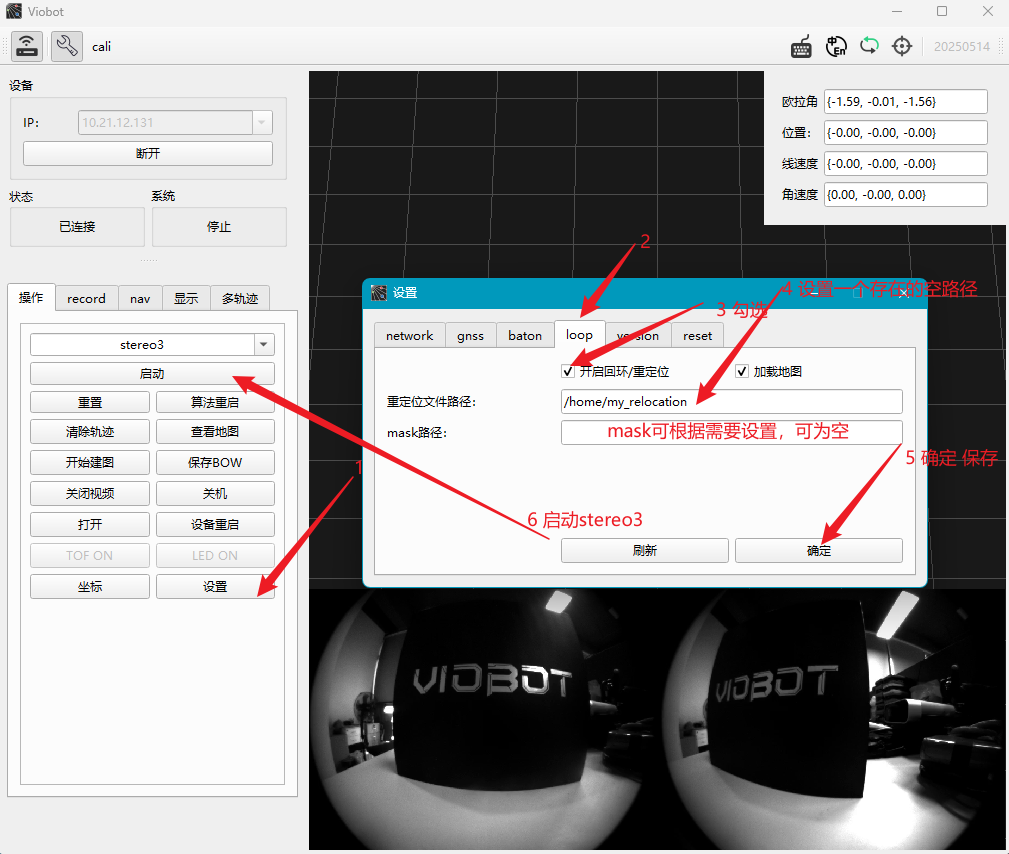
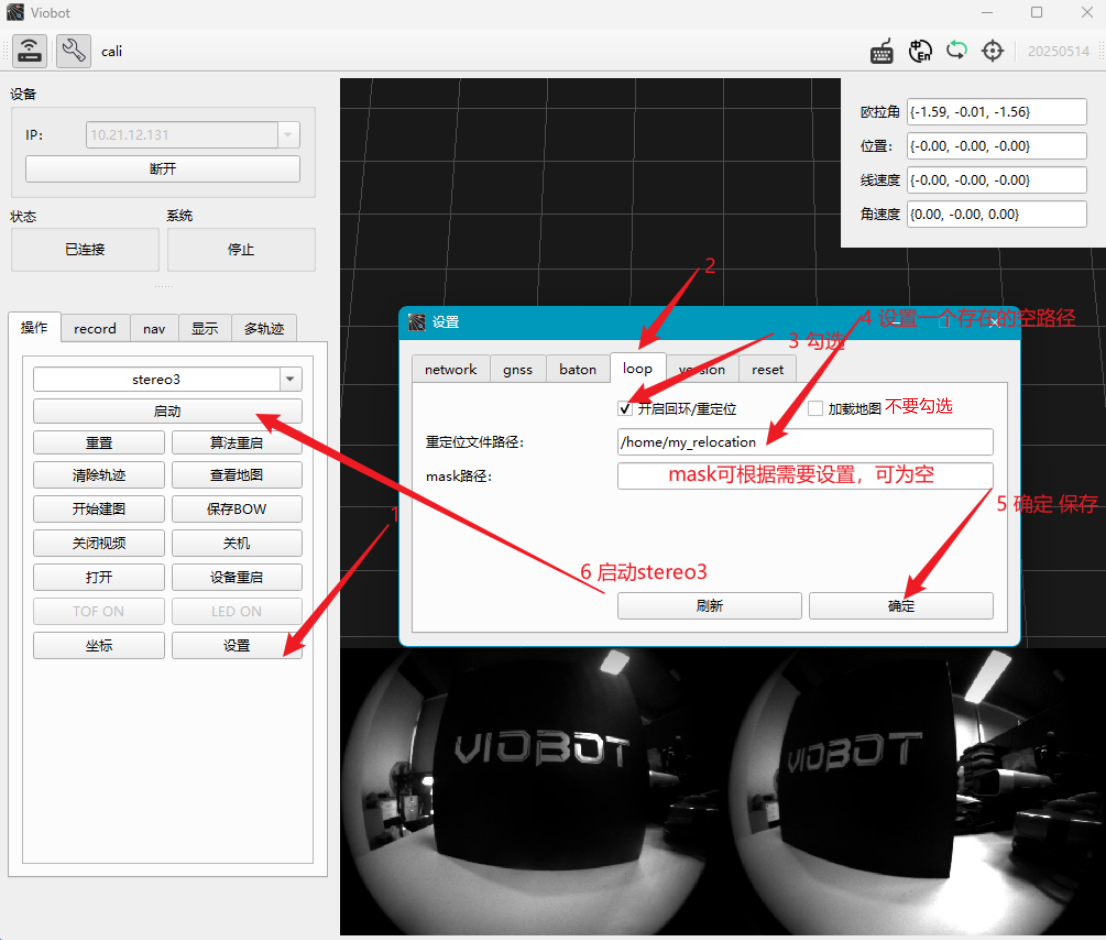
更正建图

diff --git a/source/application/HM建图与重定位.md b/source/application/HM建图与重定位.md
@@ -37,6 +37,7 @@
 
 viobot-ui连接viobot2，点击设置，找到loop一栏：
 - 勾选“开启回环/重定位”，重定位文件夹可以保持默认路径；
+- **“加载地图”不要勾选**，否则无法采集数据；
 - mask路径就是当viobot镜头画面中有固定物体的遮挡时设置区域屏蔽作用的，如安装到小车上可以通过设置mask屏蔽画面中的车体部分对算法的影响，如没有画面遮挡保持为空即可；
 
 以上设置完成后点击确定，之后再启动stereo3算法，开始移动viobot2去采集数据，注意过程中画面视角不要变化过快避免之后的重建的结果不理想。
@@ -49,9 +50,10 @@ viobot-ui连接viobot2，点击设置，找到loop一栏：
 
 ## 离线建图
 
-前面已经完成了建图的数据采集、基础配置项，建图前建议按照上一节检查一下基础配置项，之后点击开始建图之后出现建图的进度条，整个建图的用时视建图的环境大小而增大，进图条结束之后可以在输出路径下的HM_SFM目录下找到重建的结果了：
+前面已经完成了建图的数据采集、基础配置项，建图前建议按照上一节检查一下基础配置项，之后点击“开始建图”之后出现建图的进度条，整个建图的用时视建图的环境大小而增大，进图条结束之后可以在输出路径下的HM_SFM目录下找到重建的结果了：
 ![](image/image_mapping.png)
 
+> 注意：整个建图过程中对算力需求很高，viobot2的cpu在这段时间会出现cpu占用跑满的情况，都是正常的现象，等建图完成之后cpu占用就会恢复正常，在此过程中注意保持viobot2供电的稳定性。
 下图是用tree来查看建图完成的目录结构
 
 ```shell
